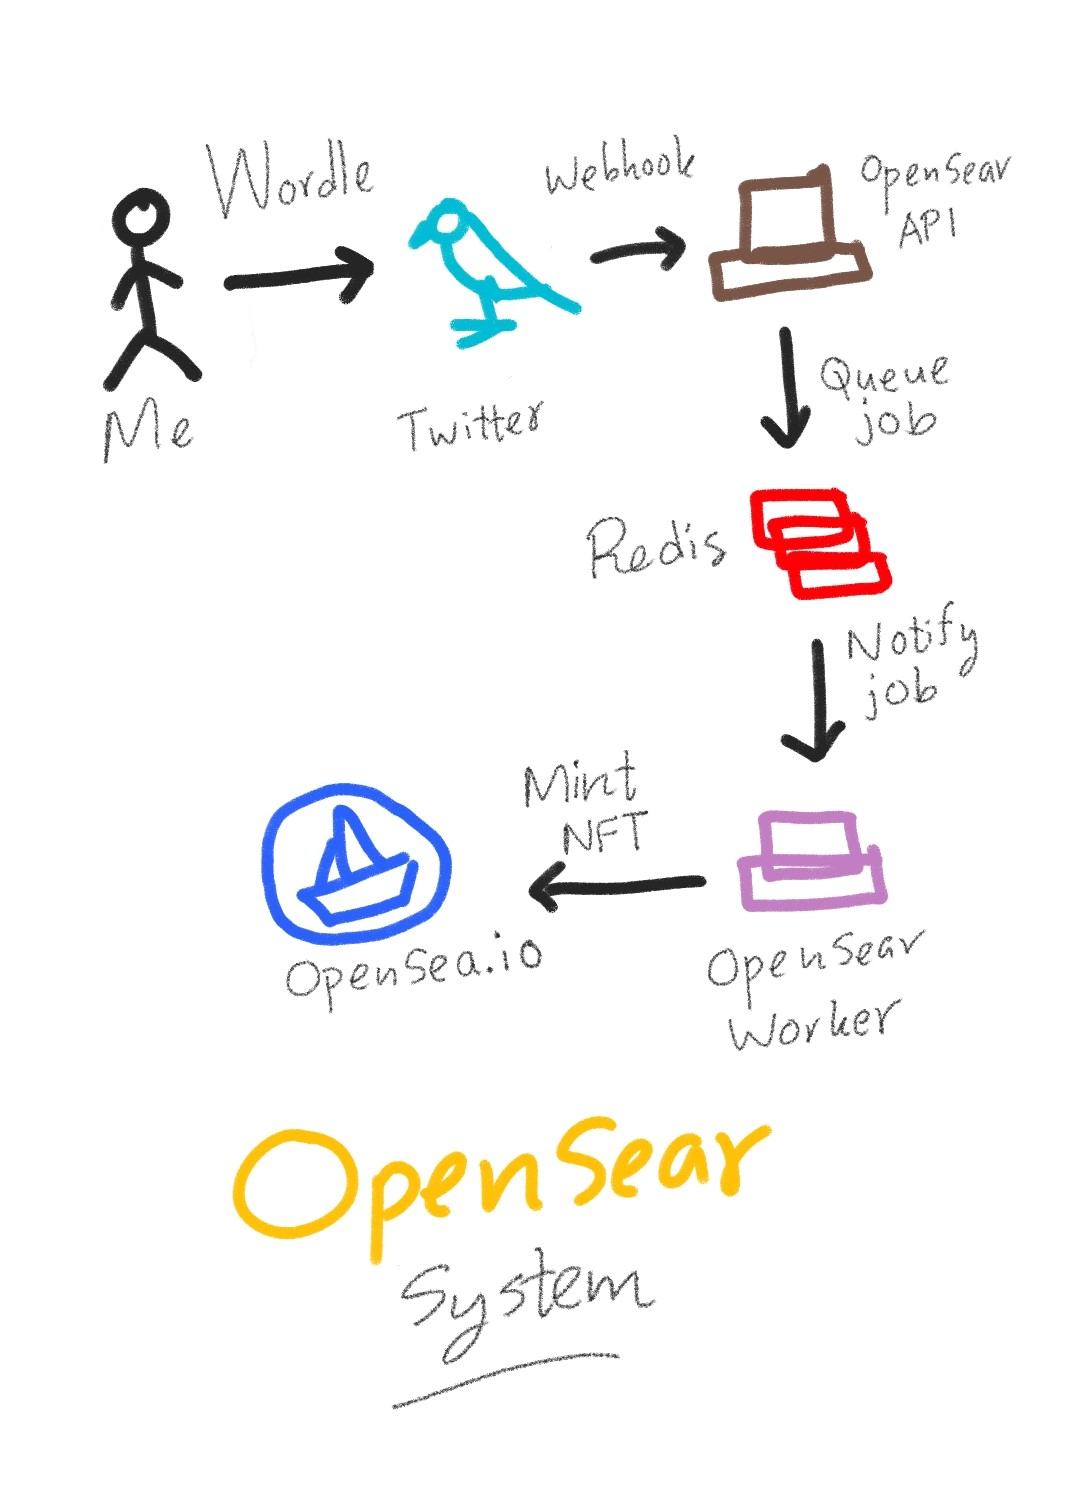
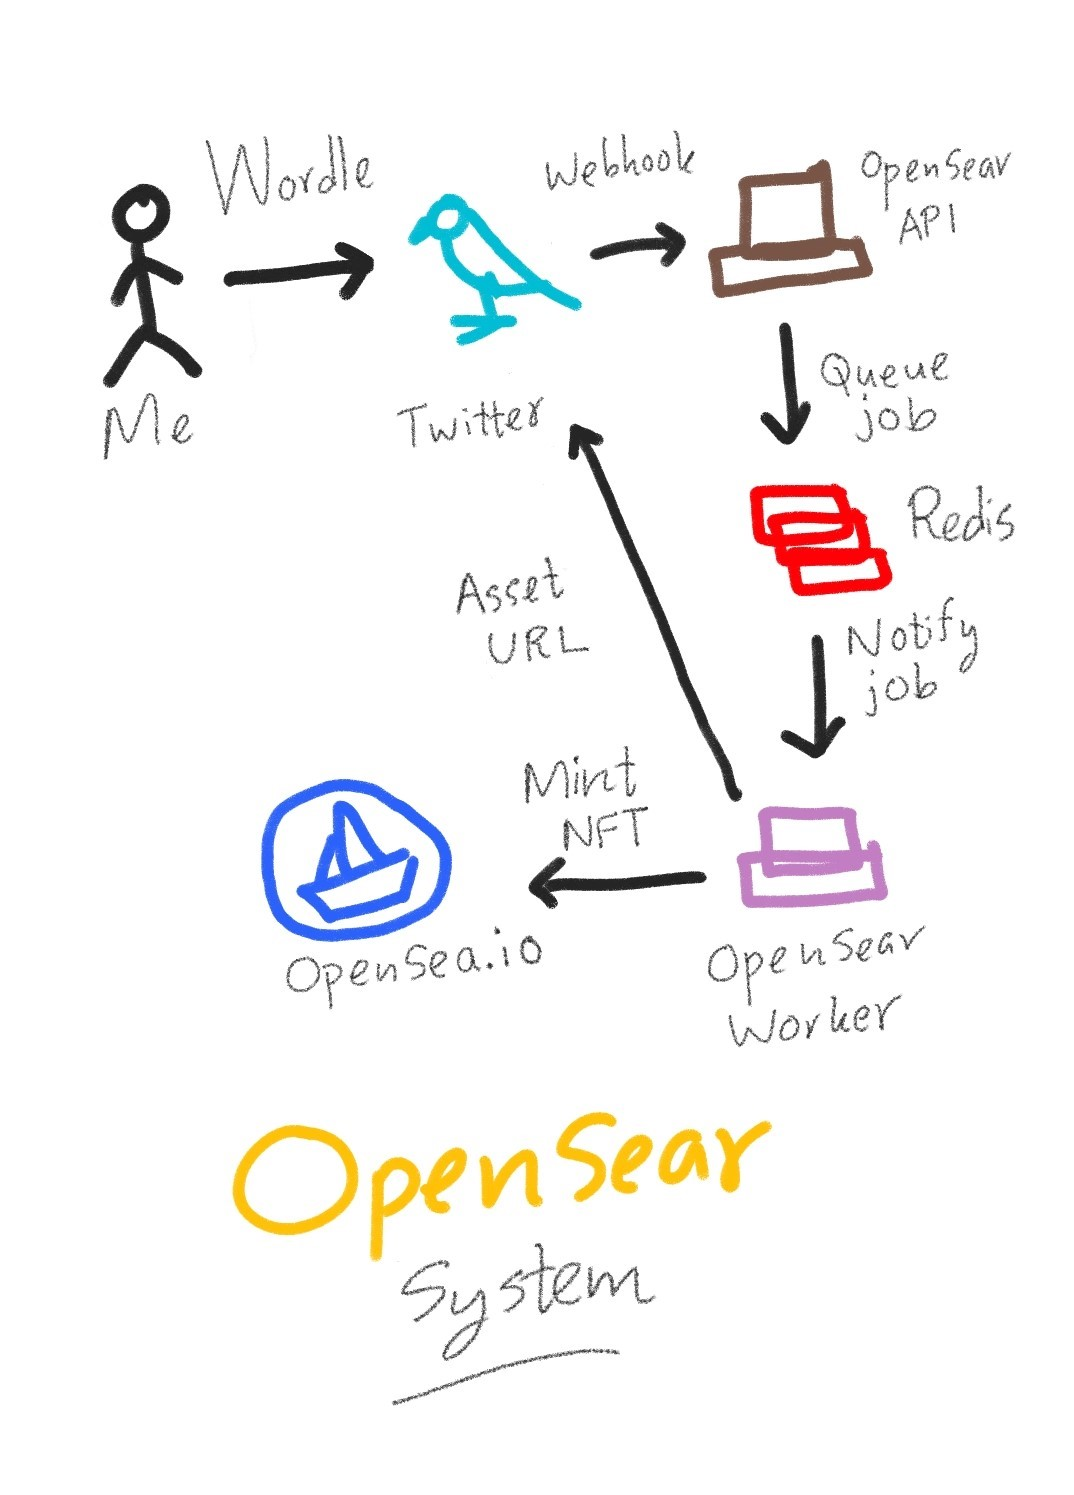
Update README

diff --git a/README.md b/README.md
@@ -1,8 +1,10 @@
 # OpenSear
 
-OpenSear is a web app to view the assets and metadata to help me to publish my NFTs to [opensea.io](https://opensea.io).
+**OpenSear** is a system that helps me to mint and list my NFTs on [opensea.io](https://opensea.io) marketplace.
 
 Check out my NFT collection [a wordle a day keeps the sadness away](https://opensea.io/collection/wordle-keeps-sadness-away).
+
+![image](./assets/opensea.jpg)
 
 ## Architecture
 
@@ -14,7 +16,7 @@ When a user tweets a specific tweet (in this case a tweet of a [wordle](https://
 
 OpenSear-Worker will obtain a screenshot of the tweet (notified via the webhook payload) using [TweetPik Twitter Screenshot API](https://tweetpik.com/twitter-screenshot-api). The TweetPik screenshot has a watermark (luckily it's position is predictable) and the watermark is removed using [Jimp](https://github.com/oliver-moran/jimp) library. Then the watermark removed tweet screenshot is ready for minting an NFT and listing in [OpenSea.io](https://opensea.io) platform.
 
-Since [OpenSea.io](https://opensea.io) platform does not have an API for creating assets, the [puppeteer](https://www.npmjs.com/package/puppeteer) will automate the task and mint the NFT. The OpenSear-Worker will launch a [puppeteer](https://www.npmjs.com/package/puppeteer) browser, and it will be authenticated for [MetaMask](https://metamask.io/) using [@chainsafe/dappeteer](https://www.npmjs.com/package/@chainsafe/dappeteer) and finally the NFT is minted. This is where the OpenSear-Worker concludes its tasks. Then I manually list them by quoting a price later :D.
+Since [OpenSea.io](https://opensea.io) platform does not have an API for creating assets, the [puppeteer](https://www.npmjs.com/package/puppeteer) will automate the task and mint the NFT. The OpenSear-Worker will launch a [puppeteer](https://www.npmjs.com/package/puppeteer) browser, and it will be authenticated for [MetaMask](https://metamask.io/) using [@chainsafe/dappeteer](https://www.npmjs.com/package/@chainsafe/dappeteer) and finally the NFT is minted. Finally, OpenSear-Worker will reply the original tweet with the OpenSea.io marketplace asset URL for the minted NFT. This is where the OpenSear-Worker concludes its tasks. Then I manually list them by quoting a price later 😁.
 
 ## Install Steps
 
@@ -34,3 +36,19 @@ $ pm2 start --name "opensear" npm -- start
 ```bash
 $ pm2 start --name "opensearobot" npm -- run worker
 ```
+
+## OpenSear in action
+
+### On [OpenSea.io marketplace](https://opensea.io/assets/matic/0x2953399124f0cbb46d2cbacd8a89cf0599974963/3174924704537354725776608230933781217533108654819823768175757862932559429633)
+
+![image](./assets/nft.jpg)
+
+### On [Twitter](https://twitter.com/Niweera/status/1492597351089045505)
+
+![image](./assets/tweet.jpg)
+
+## Acknowledgement
+
+Special thanks to all the people who wrote code that I took some inspiration 😉. Specially [this guy](https://medium.com/@andre.rabold) for his [wonderful article](https://levelup.gitconnected.com/how-to-mint-100-000-nfts-for-free-62d83888ff6) and [code](https://github.com/arabold/opensea-uploader).
+
+No idea what NFTs are? Me neither 🤷♂. Check [this video](https://www.youtube.com/watch?v=meTpMP0J5E8) out.
